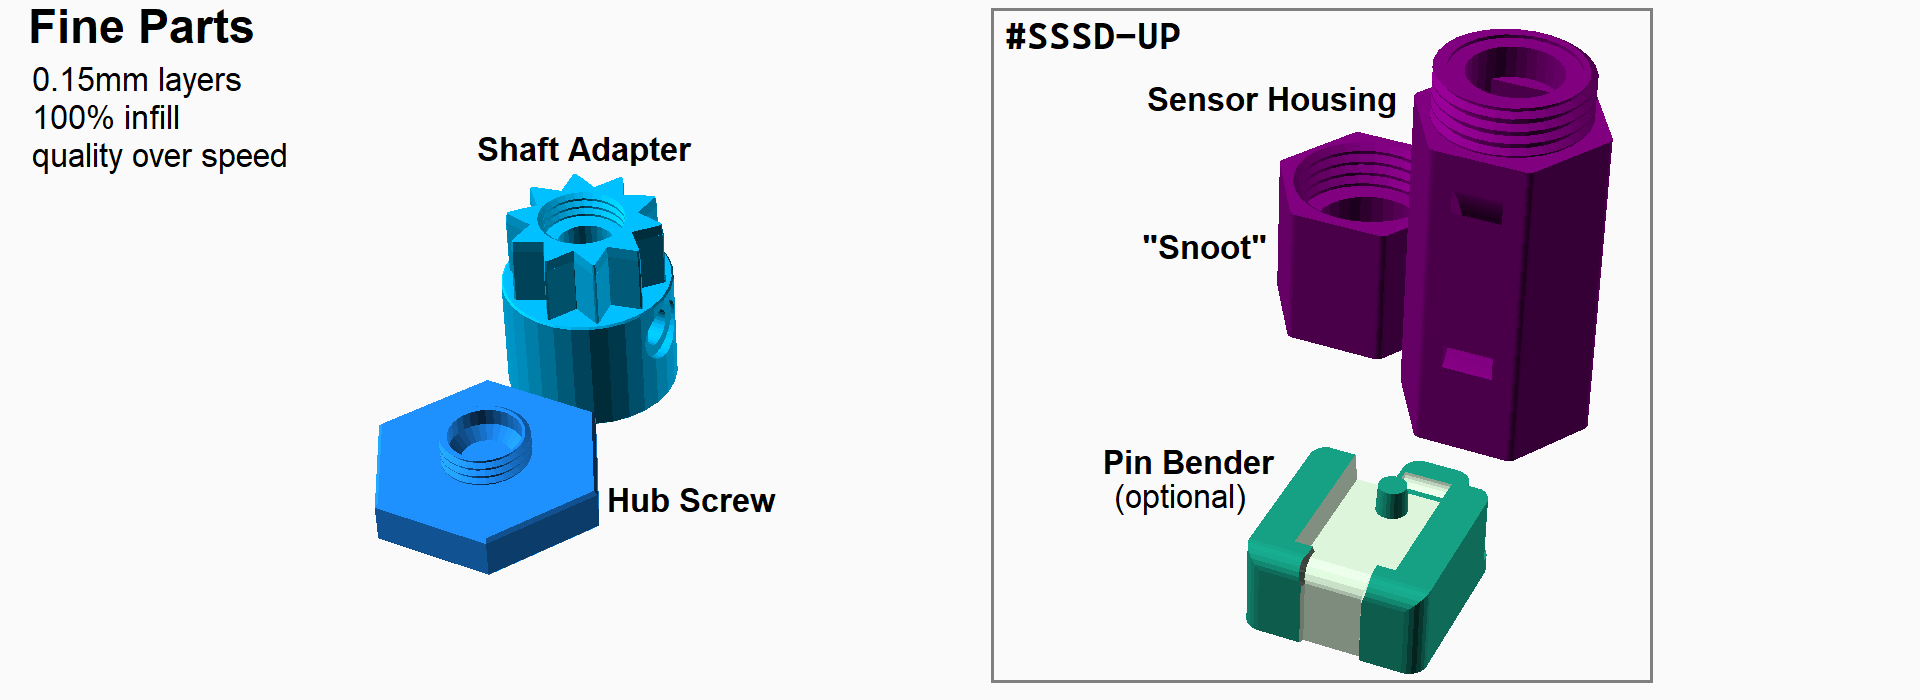
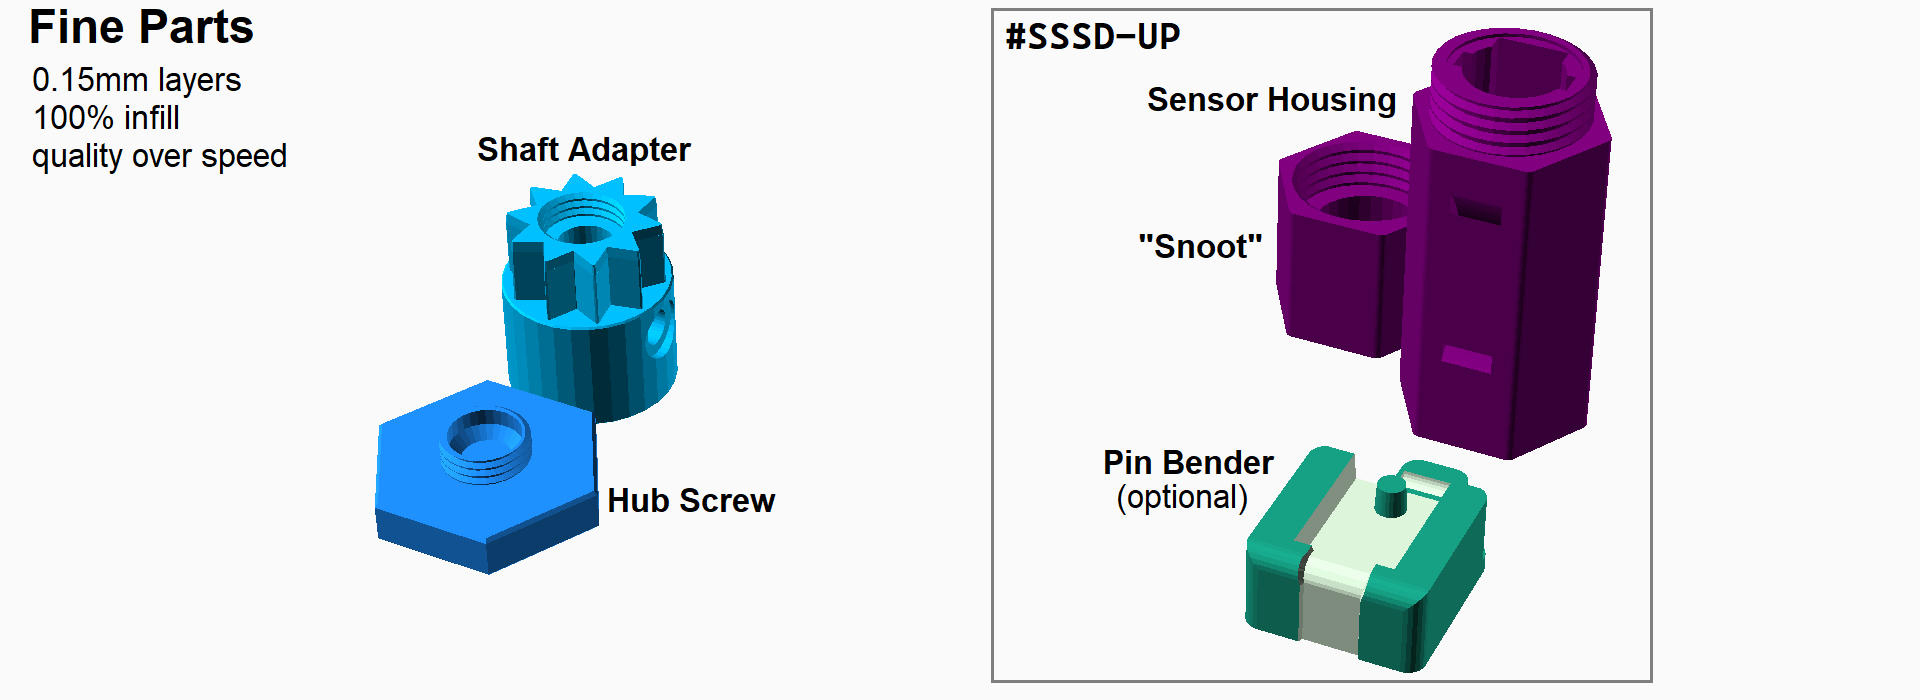
Applied last fixes before printing assembly instructions for M&T.

diff --git a/docs/assembly.md b/docs/assembly.md
@@ -1,6 +1,7 @@
-# Stupidly Simple Spider Dropper<br>Assembly Instructions<br>DRAFT
+# Stupidly Simple Spider Dropper<br>Assembly Instructions
 
-Adrian McCarthy 2026 for the [Northern California Haunters Group](https://www.norcalhaunters.com/)
+Adrian McCarthy for the [Northern California Haunters Group](https://www.norcalhaunters.com/)<br>
+August 2026
 
 Source files and documentation available at https://github.com/aidtopia/spider_dropper<br>
 STL files will be available on `https:\\printables.com\` [TODO]
@@ -282,7 +283,7 @@ The base plate has two string guides at the edges near the spool.  Decide whethe
 - [ ] Thread the monofilament into one of the holes along the edge of the spool.
 - [ ] Loop the monofilament through the two holes in the bar that divides the recess.
 - [ ] Tie the line to itself.
-- [ ] Trm the excess and ensure the knot remains entirely within the recess.
+- [ ] Trim the excess and ensure the knot remains entirely within the recess.
 
 ![Line Routing](string_path.png)
 
